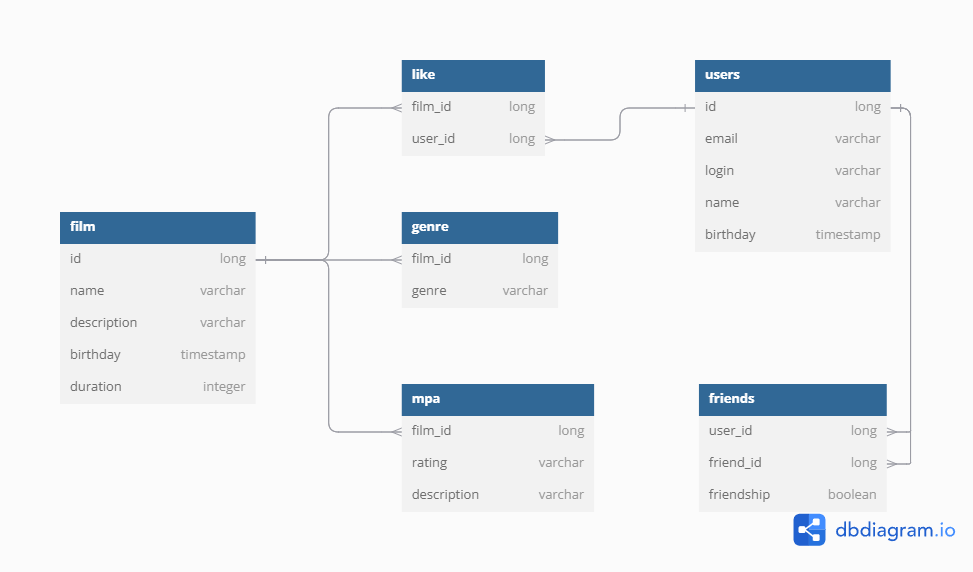
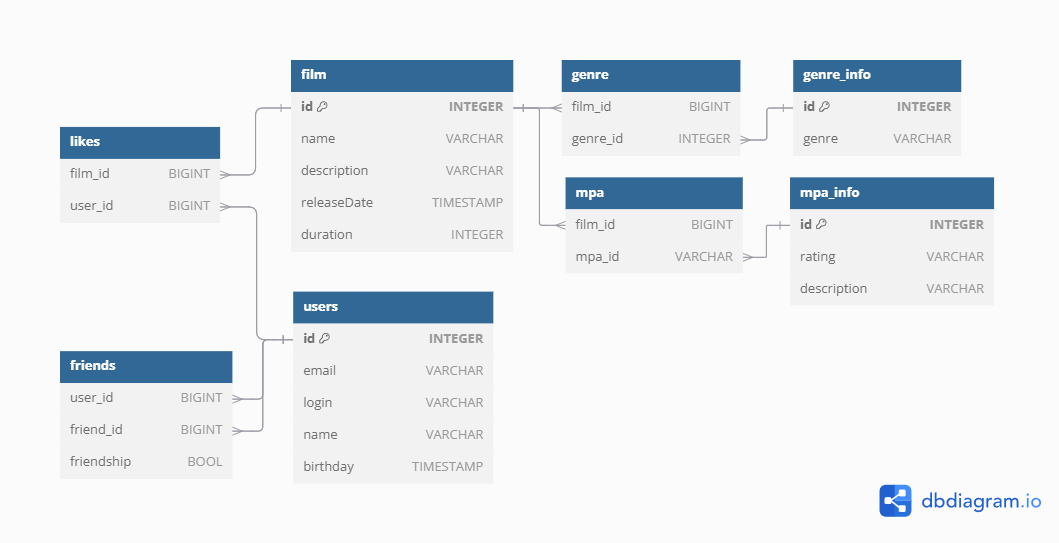
выполнение задания 12 спринта

diff --git a/src/test/java/ru/yandex/practicum/filmorate/controller/UserControllerTest.java b/src/test/java/ru/yandex/practicum/filmorate/controller/UserControllerTest.java
@@ -1,8 +1,12 @@
 package ru.yandex.practicum.filmorate.controller;
 
+import lombok.RequiredArgsConstructor;
 import org.junit.jupiter.api.Test;
 import org.springframework.beans.factory.annotation.Autowired;
-import org.springframework.boot.test.context.SpringBootTest;
+import org.springframework.boot.test.autoconfigure.jdbc.AutoConfigureTestDatabase;
+import org.springframework.boot.test.autoconfigure.jdbc.JdbcTest;
+import org.springframework.context.annotation.Import;
+import ru.yandex.practicum.filmorate.dao.UserDbStorage;
 import ru.yandex.practicum.filmorate.exception.ElementNotFoundException;
 import ru.yandex.practicum.filmorate.exception.ValidationException;
 import ru.yandex.practicum.filmorate.model.User;
@@ -15,11 +19,13 @@ import static org.junit.jupiter.api.Assertions.assertNotNull;
 import static org.junit.jupiter.api.Assertions.assertThrows;
 import static org.junit.jupiter.api.Assertions.assertTrue;
 
-@SpringBootTest
+@JdbcTest
+@AutoConfigureTestDatabase
+@RequiredArgsConstructor(onConstructor_ = @Autowired)
+@Import({UserDbStorage.class})
 public class UserControllerTest {
 
-    @Autowired
-    private UserController userController;
+    private final UserDbStorage userDbStorage;
 
     @Test
     public void testReturnsAllUsers() {
@@ -35,10 +41,10 @@ public class UserControllerTest {
         user2.setName("User Two");
         user2.setBirthday(LocalDate.of(1992, 2, 2));
 
-        userController.create(user);
-        userController.create(user2);
+        userDbStorage.create(user);
+        userDbStorage.create(user2);
 
-        Collection<User> users = userController.findAll();
+        Collection<User> users = userDbStorage.findAll();
 
         users.forEach(u -> {
             assertTrue(u.getLogin().equals(user.getLogin()) || u.getLogin().equals(user2.getLogin()));
@@ -53,7 +59,7 @@ public class UserControllerTest {
         user.setName(null);
         user.setBirthday(LocalDate.of(1990, 1, 1));
 
-        User savedUser1 = userController.create(user);
+        User savedUser1 = userDbStorage.create(user);
 
         assertNotNull(savedUser1.getId());
         assertEquals("user1@example.com", savedUser1.getEmail());
@@ -62,23 +68,23 @@ public class UserControllerTest {
         assertEquals(LocalDate.of(1990, 1, 1), savedUser1.getBirthday());
 
         user.setEmail(null);
-        assertThrows(RuntimeException.class, () -> userController.create(user));
+        assertThrows(RuntimeException.class, () -> userDbStorage.create(user));
 
         user.setEmail("user3.com");
-        assertThrows(ValidationException.class, () -> userController.create(user));
+        assertThrows(ValidationException.class, () -> userDbStorage.create(user));
 
         user.setEmail("user1@example.com");
         user.setLogin("");
-        assertThrows(RuntimeException.class, () -> userController.create(user));
+        assertThrows(RuntimeException.class, () -> userDbStorage.create(user));
 
         user.setLogin(null);
-        assertThrows(RuntimeException.class, () -> userController.create(user));
+        assertThrows(RuntimeException.class, () -> userDbStorage.create(user));
 
         user.setLogin("user 1");
-        assertThrows(ValidationException.class, () -> userController.create(user));
+        assertThrows(ValidationException.class, () -> userDbStorage.create(user));
 
         user.setBirthday(LocalDate.now().plusMonths(5));
-        assertThrows(ValidationException.class, () -> userController.create(user));
+        assertThrows(ValidationException.class, () -> userDbStorage.create(user));
     }
 
     @Test
@@ -89,10 +95,10 @@ public class UserControllerTest {
         user1.setName(null);
         user1.setBirthday(LocalDate.of(1990, 1, 1));
 
-        userController.create(user1);
+        userDbStorage.create(user1);
 
         User userUpdate = new User();
         userUpdate.setId(user1.getId() + 5);
-        assertThrows(ElementNotFoundException.class, () -> userController.update(userUpdate));
+        assertThrows(ElementNotFoundException.class, () -> userDbStorage.update(userUpdate));
     }
 }

diff --git a/src/test/java/ru/yandex/practicum/filmorate/controller/FilmControllerTest.java b/src/test/java/ru/yandex/practicum/filmorate/controller/FilmControllerTest.java
@@ -1,8 +1,12 @@
 package ru.yandex.practicum.filmorate.controller;
 
+import lombok.RequiredArgsConstructor;
 import org.junit.jupiter.api.Test;
 import org.springframework.beans.factory.annotation.Autowired;
-import org.springframework.boot.test.context.SpringBootTest;
+import org.springframework.boot.test.autoconfigure.jdbc.AutoConfigureTestDatabase;
+import org.springframework.boot.test.autoconfigure.jdbc.JdbcTest;
+import org.springframework.context.annotation.Import;
+import ru.yandex.practicum.filmorate.dao.FilmDbStorage;
 import ru.yandex.practicum.filmorate.exception.ElementNotFoundException;
 import ru.yandex.practicum.filmorate.exception.ValidationException;
 import ru.yandex.practicum.filmorate.model.Film;
@@ -15,11 +19,13 @@ import static org.junit.jupiter.api.Assertions.assertNotNull;
 import static org.junit.jupiter.api.Assertions.assertThrows;
 import static org.junit.jupiter.api.Assertions.assertTrue;
 
-@SpringBootTest
+@JdbcTest
+@AutoConfigureTestDatabase
+@RequiredArgsConstructor(onConstructor_ = @Autowired)
+@Import({FilmDbStorage.class})
 public class FilmControllerTest {
 
-    @Autowired
-    private FilmController filmController;
+    private final FilmDbStorage filmStorage;
 
     @Test
     public void testReturnsAllF() {
@@ -36,10 +42,10 @@ public class FilmControllerTest {
         film2.setReleaseDate(LocalDate.of(2023, 12, 15));
         film2.setDuration(168);
 
-        filmController.create(film1);
-        filmController.create(film2);
+        filmStorage.create(film1);
+        filmStorage.create(film2);
 
-        List<Film> films = filmController.findAll();
+        List<Film> films = filmStorage.findAll();
 
         films.forEach(f -> {
             assertTrue(f.getName().equals(film1.getName()) || f.getName().equals(film2.getName()));
@@ -54,7 +60,7 @@ public class FilmControllerTest {
         film.setReleaseDate(LocalDate.of(2023, 12, 15));
         film.setDuration(168);
 
-        Film savedFilm = filmController.create(film);
+        Film savedFilm = filmStorage.create(film);
 
         assertNotNull(savedFilm.getId());
         assertEquals("filmName1", savedFilm.getName());
@@ -63,21 +69,21 @@ public class FilmControllerTest {
         assertEquals(168, savedFilm.getDuration());
 
         film.setName(null);
-        assertThrows(RuntimeException.class, () -> filmController.create(film));
+        assertThrows(RuntimeException.class, () -> filmStorage.create(film));
 
         film.setName("filmName1");
         film.setDescription("1111111111111111111111111111111111111111111111111111111111111111111" +
                 "111111111111111111111111111111111111111111111111111111111111111111111111111111111" +
                 "111111111111111111111111111111111111111111111111111111111111111111111111111111111111111111111111111111");
-        assertThrows(ValidationException.class, () -> filmController.create(film));
+        assertThrows(ValidationException.class, () -> filmStorage.create(film));
 
         film.setDescription("Descr1");
         film.setReleaseDate(LocalDate.of(1894, 12, 15));
-        assertThrows(ValidationException.class, () -> filmController.create(film));
+        assertThrows(ValidationException.class, () -> filmStorage.create(film));
 
         film.setReleaseDate(LocalDate.of(2023, 12, 15));
         film.setDuration(-1);
-        assertThrows(ValidationException.class, () -> filmController.create(film));
+        assertThrows(ValidationException.class, () -> filmStorage.create(film));
     }
 
     @Test
@@ -88,10 +94,10 @@ public class FilmControllerTest {
         film.setReleaseDate(LocalDate.of(2023, 12, 15));
         film.setDuration(168);
 
-        filmController.create(film);
+        filmStorage.create(film);
 
         Film filmUpdate = new Film();
         filmUpdate.setId(film.getId() + 5);
-        assertThrows(ElementNotFoundException.class, () -> filmController.update(filmUpdate));
+        assertThrows(ElementNotFoundException.class, () -> filmStorage.update(filmUpdate));
     }
 }
